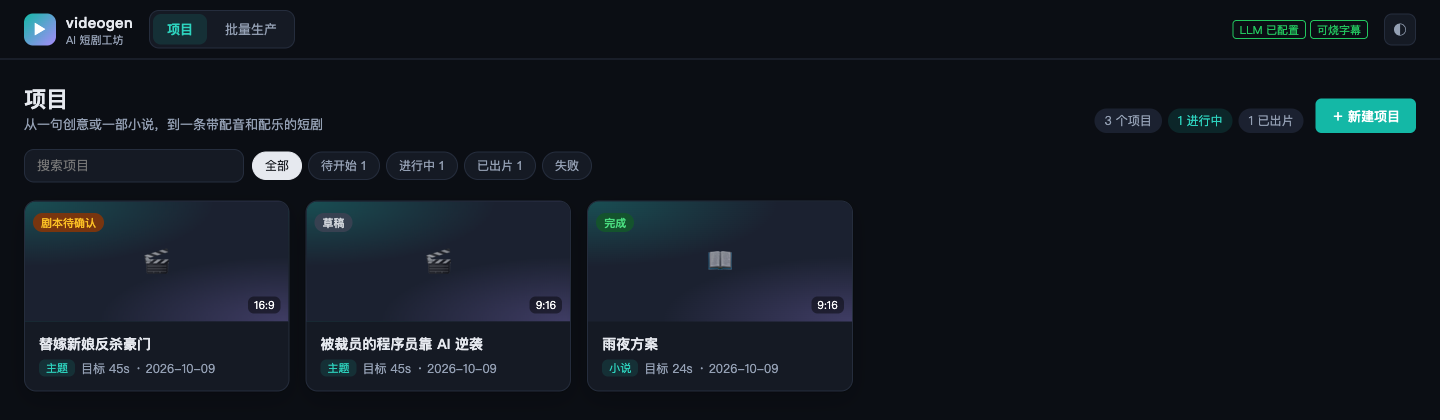
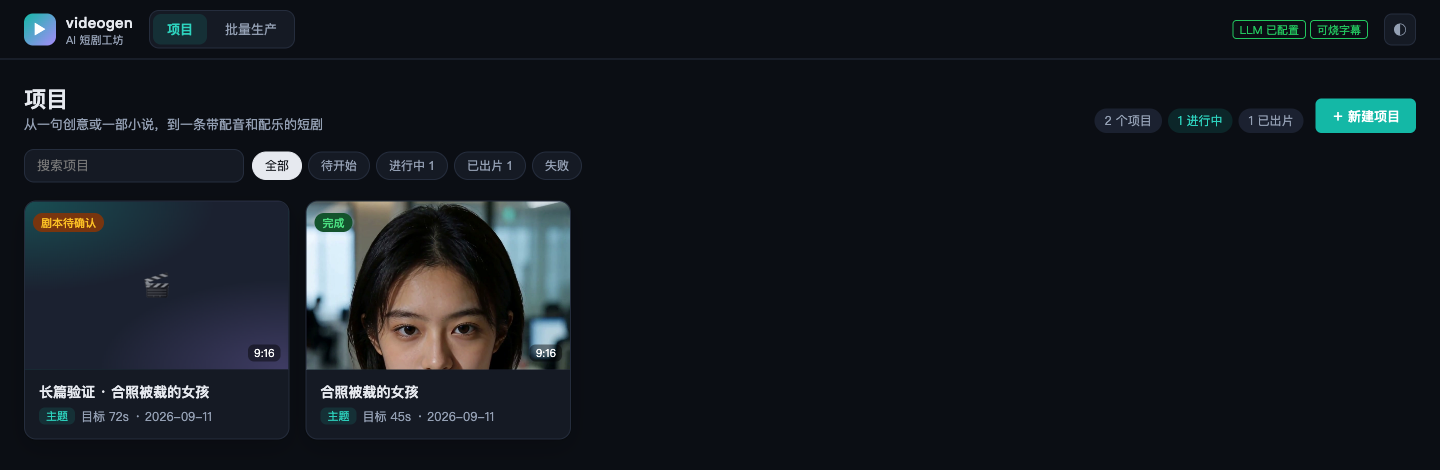
docs: README 截图换成真实已完成项目「合照被裁的女孩」；修几处 UI 显示问题
- 截图来自真实跑完的项目（MiniMax H3 片段、seedream 定妆照、云端配音、本机配乐），
  剧本选章用同一故事的长篇版本；照片多的三张改用 JPG（截图目录 2.8M → 1.6M）
- 项目卡片封面显示主角定妆照（没有图时退回图标）
- 分镜提示：不再把没记录档位的老分镜说成 mock；全部生成完时显示整片计费而不是「本次 0 秒」；
  段落模式下改为「按段计费」的说法
- 配乐面板「重音」一行字号异常（样式选择器没覆盖到表格外的元素）

diff --git a/static/index.html b/static/index.html
@@ -127,7 +127,7 @@ body {
 .music-sections th { color: var(--text2); font-weight: 500; text-align: left; padding: 2px 6px; }
 .music-sections td { padding: 2px 6px; border-top: 1px solid var(--border); color: var(--text2); }
 .music-sections td.label { color: var(--text); }
-.music-sections .accents { font-size: 11px; color: var(--text2); line-height: 1.6; }
+.music-sections .accents, .accents { font-size: 11px; font-weight: 400; color: var(--text2); line-height: 1.6; }
 .tag-mini {
   font-size: 11px; padding: 1px 6px; border-radius: 4px;
   background: var(--bg); border: 1px solid var(--border); color: var(--text2);
@@ -398,13 +398,14 @@ body {
 }
 .project-card:hover { transform: translateY(-2px); border-color: var(--accent); }
 .project-cover {
-  height: 120px; position: relative; display: grid; place-items: center;
+  height: 168px; position: relative; display: grid; place-items: center;
   background:
     radial-gradient(120% 90% at 0% 0%, color-mix(in srgb, var(--accent) 30%, transparent), transparent 60%),
     radial-gradient(120% 90% at 100% 100%, color-mix(in srgb, var(--violet) 26%, transparent), transparent 60%),
     var(--surface2);
 }
-.project-cover img { width: 100%; height: 100%; object-fit: cover; }
+.project-cover img { position: absolute; inset: 0; width: 100%; height: 100%; object-fit: cover; object-position: center 42%; }
+.project-cover .corner, .project-cover .ratio { z-index: 1; }
 .project-cover .cover-icon { font-size: 26px; opacity: .55; }
 .project-cover .corner { position: absolute; top: 8px; left: 8px; }
 .project-cover .ratio {
@@ -828,6 +829,8 @@ function renderProjectGrid() {
     <div class="project-card" onclick="selectProject('${p.id}')">
       <div class="project-cover">
         <span class="cover-icon">${p.input_mode === 'novel' ? '📖' : '🎬'}</span>
+        <img class="cover-img" alt="" loading="lazy" onerror="this.remove()"
+             src="${withToken(`/api/projects/${p.id}/assets/characters/char_1/reference`)}">
         <span class="corner">${statusTag(p.status)}</span>
         <span class="ratio">${esc(p.aspect_ratio)}</span>
       </div>
@@ -1909,17 +1912,22 @@ function storyboardTierHint(sb) {
   const tier = sb.duration_tier;
   const plan = (currentPreflight && currentPreflight.video) || null;
   const rows = [];
+  const segmented = (sb.shots || []).some(x => x.segment_id);
   if (tier && tier.min_sec > 1) {
     const span = tier.max_sec ? `${tier.min_sec}~${tier.max_sec}s` : `≥${tier.min_sec}s`;
-    rows.push(`视频档位 ${esc(span)}（${tier.source === 'provider' ? '来自模型' : '来自配置'}）：
-      每个镜头都不短于最短计费时长，所以不会出现「买 ${tier.min_sec} 秒只剪 3 秒」`);
-  } else if (sb.shots && sb.shots.length) {
-    rows.push('当前视频 provider 没有最短时长档位（mock 按真实秒数），分镜不受档位约束');
+    const source = tier.source === 'provider' ? '来自模型' : '来自配置';
+    rows.push(segmented
+      ? `视频档位 ${esc(span)}（${source}）：按段计费，段内的短镜头不会各自被抬到最短档位`
+      : `视频档位 ${esc(span)}（${source}）：每个镜头都不短于最短计费时长，所以不会出现「买 ${tier.min_sec} 秒只剪 3 秒」`);
   }
   if (plan && plan.shots_total) {
-    rows.push(`本片 ${plan.shots_total} 个镜头 · 预计计费 ${plan.billed_seconds}s × $${plan.price_per_second}/s ≈ ${usd(plan.estimated_usd)}` +
-      (plan.merge_plan && plan.merge_plan.worth_it
-        ? `；还可以合并短镜头省 ≈ ${usd(plan.merge_plan.saving_usd)}` : ''));
+    const unit = plan.segment_mode ? `（编成 ${plan.segments_total} 段生成）` : '';
+    rows.push(plan.to_generate
+      ? `本次要生成 ${plan.to_generate} 个镜头${unit} · 预计计费 ${plan.billed_seconds}s × $${plan.price_per_second}/s ≈ ${usd(plan.estimated_usd)}`
+      : `本片 ${plan.shots_total} 个镜头${unit}已全部生成 · 整片计费约 ${plan.billed_seconds_if_all}s × $${plan.price_per_second}/s ≈ ${usd(plan.estimated_usd_if_all)}`);
+    if (plan.merge_plan && plan.merge_plan.worth_it) {
+      rows.push(`还可以合并短镜头省 ≈ ${usd(plan.merge_plan.saving_usd)}`);
+    }
   }
   const warnings = sb.tier_warnings || [];
   const warn = warnings.length

diff --git a/README.md b/README.md
@@ -76,8 +76,10 @@ python -m videogen.tools.demo_bgm     # 可选：生成 4 首演示 BGM 到 ./as
 
 ## 使用 Web 工作台
 
-启动后打开 `http://127.0.0.1:8001`。下面的截图来自一个离线演示项目（mock 视频是纯色画面加扫过的白条，
-资产图是示意插画），接入真实模型后这些位置显示的就是真实画面。
+启动后打开 `http://127.0.0.1:8001`。下面的截图来自一个真实跑完的项目「合照被裁的女孩」：
+45 秒、15 个镜头，视频用 MiniMax H3（OpenRouter）生成，角色定妆照由 seedream 按文字设定生成，
+配音为云端 TTS，配乐为本机按分镜作曲。最终 15 个片段的视频计费约 $10.27（账本累计约 $24，含多轮实验与重跑）。
+故事与人物均为虚构。
 
 ### 1. 新建项目
 
@@ -96,7 +98,7 @@ python -m videogen.tools.demo_bgm     # 可选：生成 4 首演示 BGM 到 ./as
 每张卡片可以 **AI 生成** 参考图（角色是定妆照、场景是无人背景板、道具是白底单品图）或 **上传** 自己的图。
 配了图的资产会在生成视频时一起送给视频模型，保持跨镜头一致：
 
-![圣经与资产](docs/screenshots/03-assets.png)
+![圣经与资产](docs/screenshots/03-assets.jpg)
 
 ### 3. 剧本
 
@@ -106,10 +108,13 @@ python -m videogen.tools.demo_bgm     # 可选：生成 4 首演示 BGM 到 ./as
 
 ![剧本与章节](docs/screenshots/04-script.png)
 
+<sub>（这张截图是同一故事的长篇版本：20 章骨架，已展开 2 章。）</sub>
+
 ### 4. 分镜
 
-「生成分镜」后，镜头按**段落**分组显示：同一段的镜头会在一次视频生成里完成、段内硬切。
-每个镜头标出景别运镜、时长、出镜角色、台词和英文视频 prompt，可以逐镜编辑。确认后进入视频阶段：
+「生成分镜」后，每个镜头标出景别运镜、时长、出镜角色、台词和英文视频 prompt，可以逐镜编辑；
+顶部会给出整片的计费估算。开启段落分镜（默认）时，镜头还会按段落分组显示：同一段的镜头在一次视频生成里完成、
+段内硬切（截图里的项目生成于段落分镜上线之前，所以是逐镜显示）。确认后进入视频阶段：
 
 ![分镜](docs/screenshots/05-storyboard.png)
 
@@ -118,14 +123,14 @@ python -m videogen.tools.demo_bgm     # 可选：生成 4 首演示 BGM 到 ./as
 点生成前会先显示预估花费（按模型计费档位算的秒数和金额），确认后在后台生成，页面显示进度。
 每个镜头一个片段，可直接播放；失败的片段可以单独重试：
 
-![视频片段](docs/screenshots/06-video.png)
+![视频片段](docs/screenshots/06-video.jpg)
 
 ### 6. 配音、配乐与成片
 
 「配音」阶段选择音色和配音文案模式后生成配音；「成片与配乐」阶段生成配乐、调整字幕和响度选项，
 然后合成。成片可以在页面里带字幕预览，并下载 MP4 和字幕文件：
 
-![成片](docs/screenshots/07-compose.png)
+![成片](docs/screenshots/07-compose.jpg)
 
 每个确认过的阶段都可以用「退回」按钮回到上一步修改，下游已生成的媒体会随之作废。右上角 ◐ 切换明暗主题；
 顶部「批量生产」页可以一次提交多个主题。
